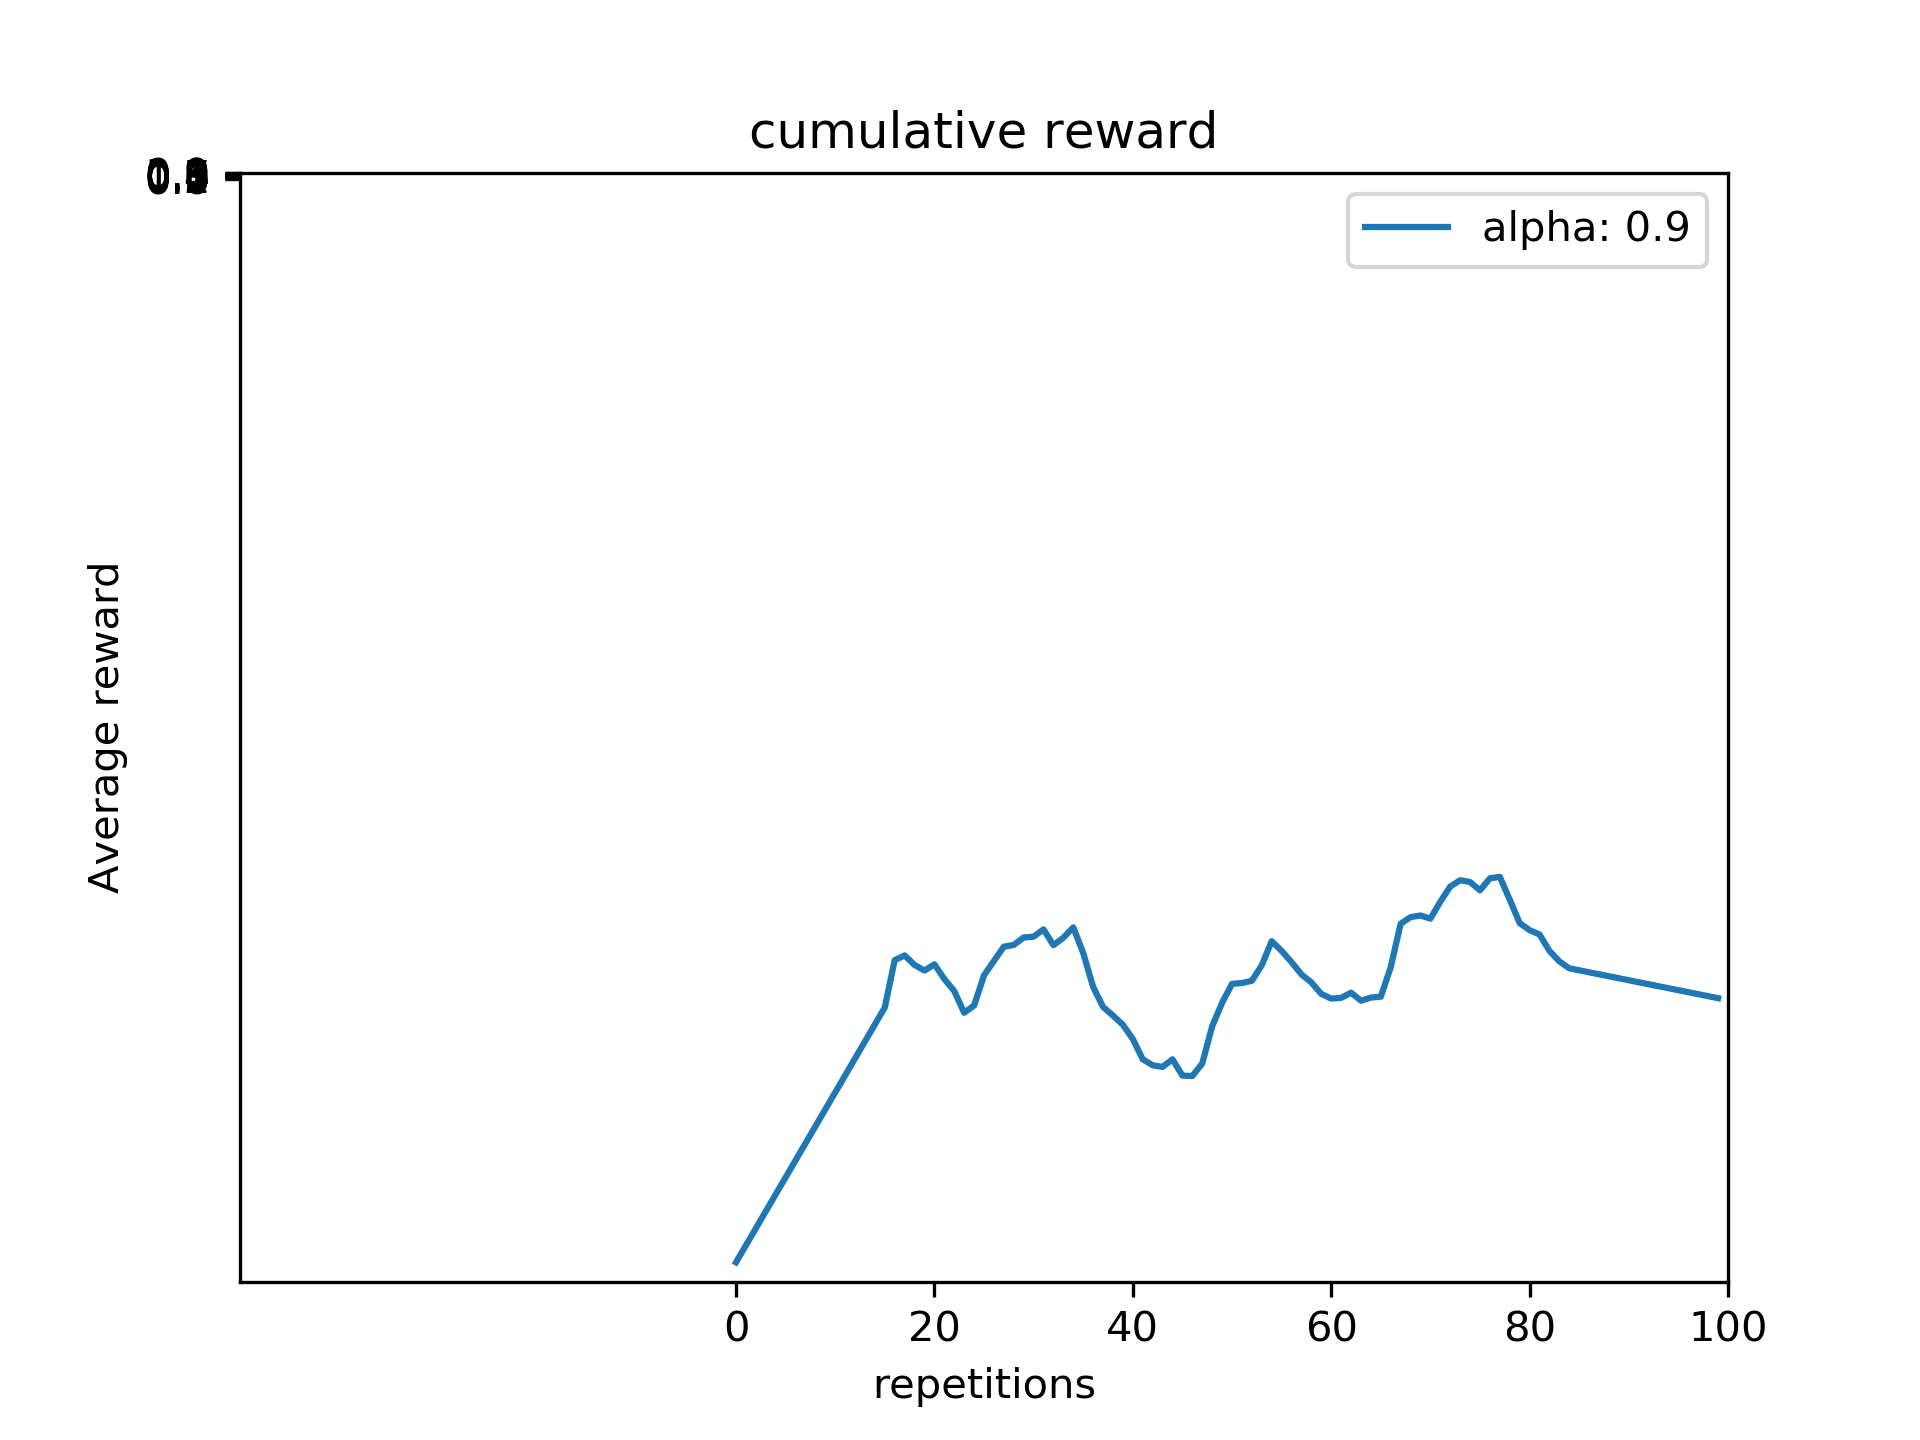
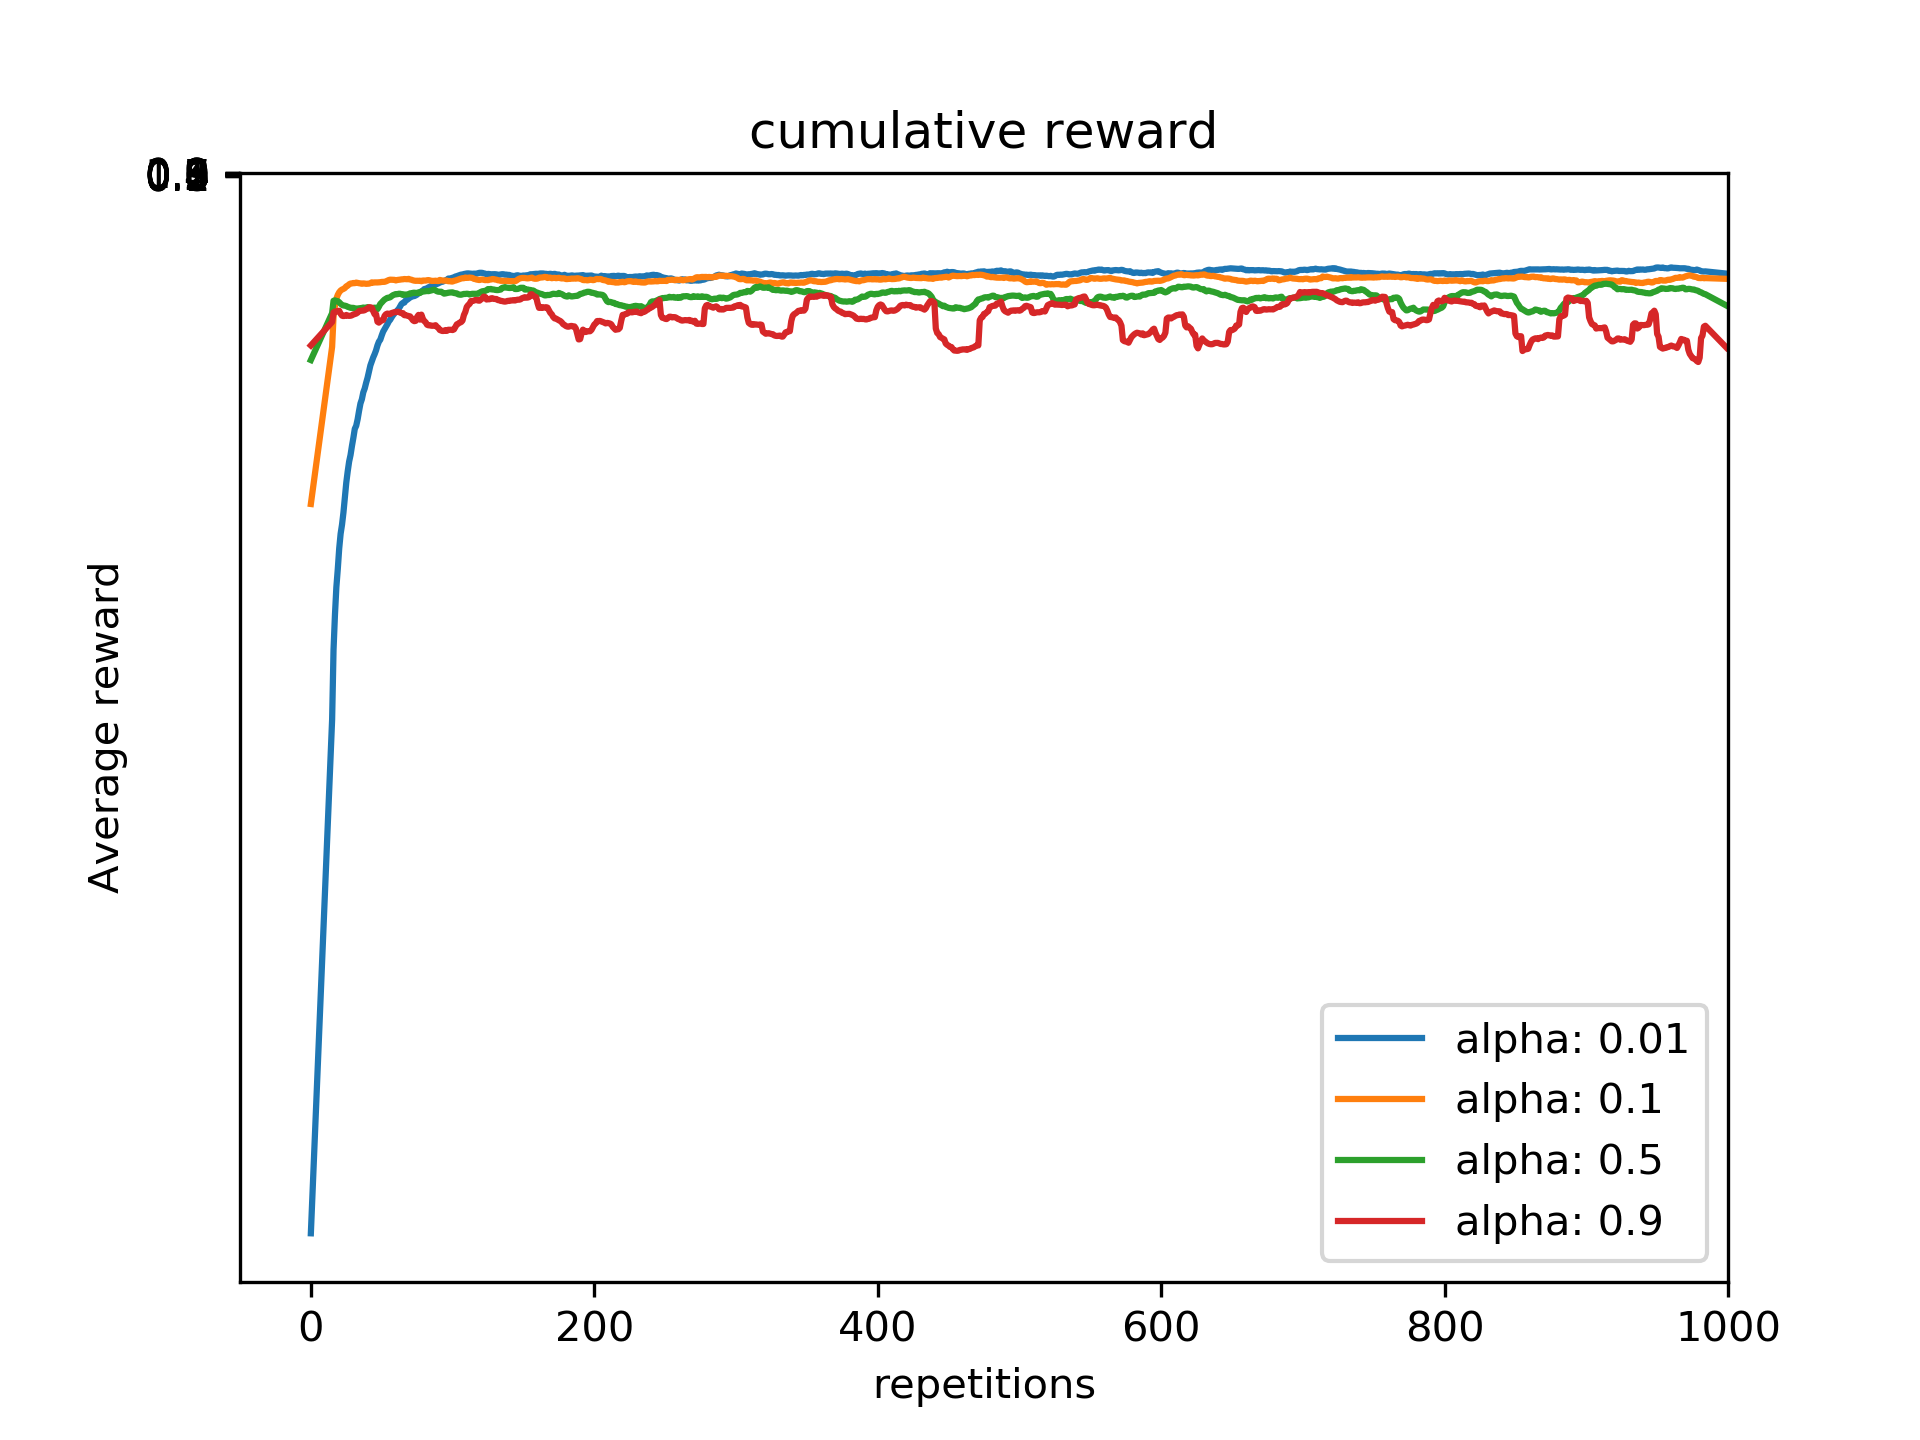
final commit (misschien niet)

diff --git a/ShortCutExperiment.py b/ShortCutExperiment.py
@@ -3,7 +3,7 @@ import numpy as np
 import matplotlib.pyplot as plt
 from scipy.signal import savgol_filter
 from ShortCutAgents import QLearningAgent, SARSAAgent, ExpectedSARSAAgent
-from ShortCutEnvironment import ShortcutEnvironment
+from ShortCutEnvironment import ShortcutEnvironment, WindyShortcutEnvironment
 
 class CreatePlot:
     def __init__(self,n_episodes, title=None):
@@ -52,7 +52,6 @@ def print_greedy_actions(Q):
     print(print_string.tobytes().decode('utf-8')) 
     
 def run_repetitions(agent_type, alpha, n_episodes, n_repititions):
-    print("new run_repetition")
     reward_array = np.empty(n_episodes)
     epsilon = 0.1
     if agent_type == 'qlearning':
@@ -78,27 +77,87 @@ def run_repetitions(agent_type, alpha, n_episodes, n_repititions):
                 state = next_state
         cum_reward /= n_repititions
         reward_array[episode] = cum_reward
-        
-
+    print_greedy_actions(policy.Q_sa)
     return reward_array
+
+def run_windy_repetitions(agent_type, n_episodes):
+    print(agent_type)
+    env = WindyShortcutEnvironment()
+    epsilon = 0.1
+    alpha = 0.1
+    
+    if agent_type == 'qlearning':
+        policy = QLearningAgent(4, WindyShortcutEnvironment().state_size(), epsilon, alpha)
+    elif agent_type == 'sarsa':
+        policy = SARSAAgent(4, WindyShortcutEnvironment().state_size(), epsilon, alpha)
+
+    for episode in range(n_episodes):
+        state = env.state()
+        finished = False
+        
+        while not finished:
+            action = policy.select_action(state)
+            
+            reward = env.step(action)
+            next_state = env.state()
+            policy.update(state, action, reward, next_state, env.done())           
+            finished = env.done()
+            state = next_state
+        env.reset()
+              
+    Q_sa = policy.Q_sa
+    
+    print_greedy_actions(Q_sa)
+    return Q_sa
+
 
 #...............................................................................................
 def create_plots(n_episodes, n_repitions):
-     #agent_types = ['qlearning', 'sarsa', 'expected_sarsa']
-     agent_types = ['expected_sarsa']
+     agent_types = ['qlearning', 'sarsa', 'expected_sarsa']
+     #agent_types = ['expected_sarsa']
      for agent_type in agent_types:
          print(agent_type)
          plot = CreatePlot(n_episodes, title='cumulative reward')
-         #alphas = [0.01, 0.1, 0.5, 0.9]
-         alphas = [0.9]
+         alphas = [0.01, 0.1, 0.5, 0.9]
          for alpha in alphas:
+             print('alpha: '+str(alpha))
              reward_array = run_repetitions(agent_type, alpha, n_episodes, n_repitions)
              smoothed = smooth(reward_array, 31)
              plot.add_curve(x=np.arange(n_episodes), y=smoothed, label="alpha: "+str(alpha))
          plot.save('smoothed_'+agent_type+'.png')
+
+def create_comparison(n_episodes, n_repititions):
+    agent_types = ['qlearning', 'sarsa', 'expected_sarsa']
+    plot = CreatePlot(n_episodes, title='comparison plot')
+    alphas = [0.9, 0.1, 0.1]
+    i = 0
+    for agent_type in agent_types:
+        reward_array = run_repetitions(agent_type, alphas[i], n_episodes, n_repititions)
+        smoothed = smooth(reward_array, 31)
+        plot.add_curve(x=np.arange(n_episodes), y=smoothed, label=agent_type)
+        
+        i += 1
+    plot.save('comparison.png')
+
+def create_windy_plots(n_episodes):
+    agent_types = ['qlearning', 'sarsa']
+    state_size = WindyShortcutEnvironment().state_size()
+    actions = [0,1,2,3]
+    best_actions = np.empty(state_size)
+    for agent_type in agent_types:
+        Q_sa = run_windy_repetitions(agent_type, n_episodes)
+        
+        for state in np.arange(state_size):
+            best_actions[state] = np.argmax(Q_sa[state])
+                    
+        plot = plt.plot(np.arange(state_size), best_actions, 'o',label=agent_type)
+        plt.show()
          
 
 create_plots(1000, 100)
+#create_windy_plots(10000)
+#run_repetitions('qlearning', 0.5, 1000, 100)
+#create_comparison(1000, 100)
 
         
     

diff --git a/ShortCutAgents.py b/ShortCutAgents.py
@@ -66,6 +66,7 @@ class ExpectedSARSAAgent(object):
         self.epsilon = epsilon
         self.alpha = alpha
         self.Q_sa = np.zeros((n_states, n_actions))
+        self.max_Q_value = 1000
         
     def select_action(self, state):
         # TO DO: Add own code
@@ -85,13 +86,22 @@ class ExpectedSARSAAgent(object):
 
         else:
             next_reward = reward
-        test = np.sum(probabilities * self.Q_sa[next_state, action])
-        self.Q_sa[state, action] += self.alpha * (next_reward + test - self.Q_sa[state, action])
+        
+        old_Q_value = self.Q_sa[state, action]
+        max_Q_value = np.max(self.Q_sa[state])
+
+        if old_Q_value + self.alpha * (next_reward - old_Q_value) > self.max_Q_value:
+            self.Q_sa[state, action] = self.max_Q_value
+
+        else:
+            self.Q_sa[state, action] += self.alpha * (next_reward - old_Q_value)
+
+        if self.Q_sa[state, action] > max_Q_value:
+            self.Q_sa[state, action] = max_Q_value
         
     
     def action_probabilities(self, state):
         probabilities = np.zeros(self.n_actions)
-        [0,1,0,0]
         if np.random.rand() < self.epsilon:
             action_probabilities = np.ones(self.n_actions) / self.n_actions
             return action_probabilities
